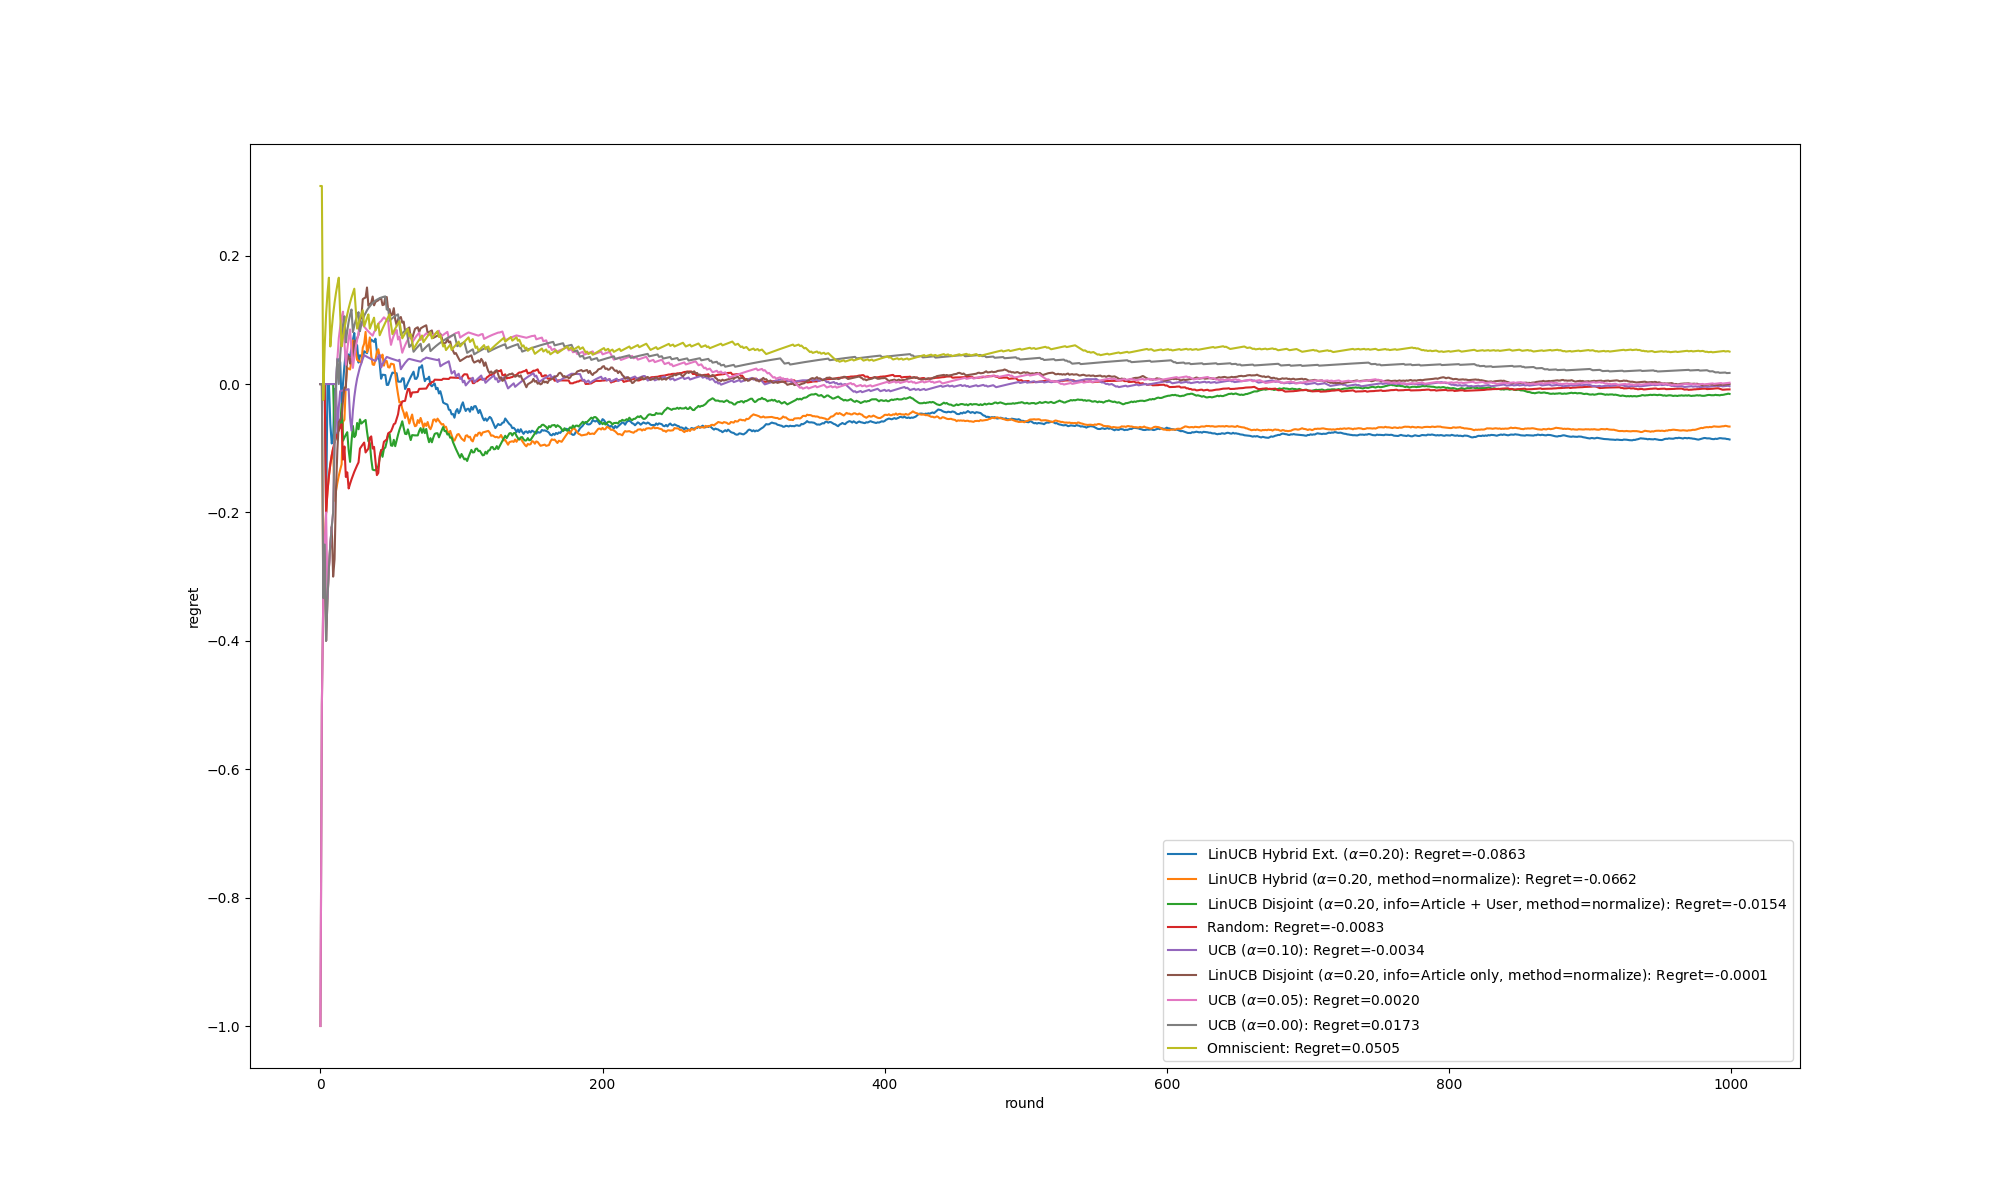
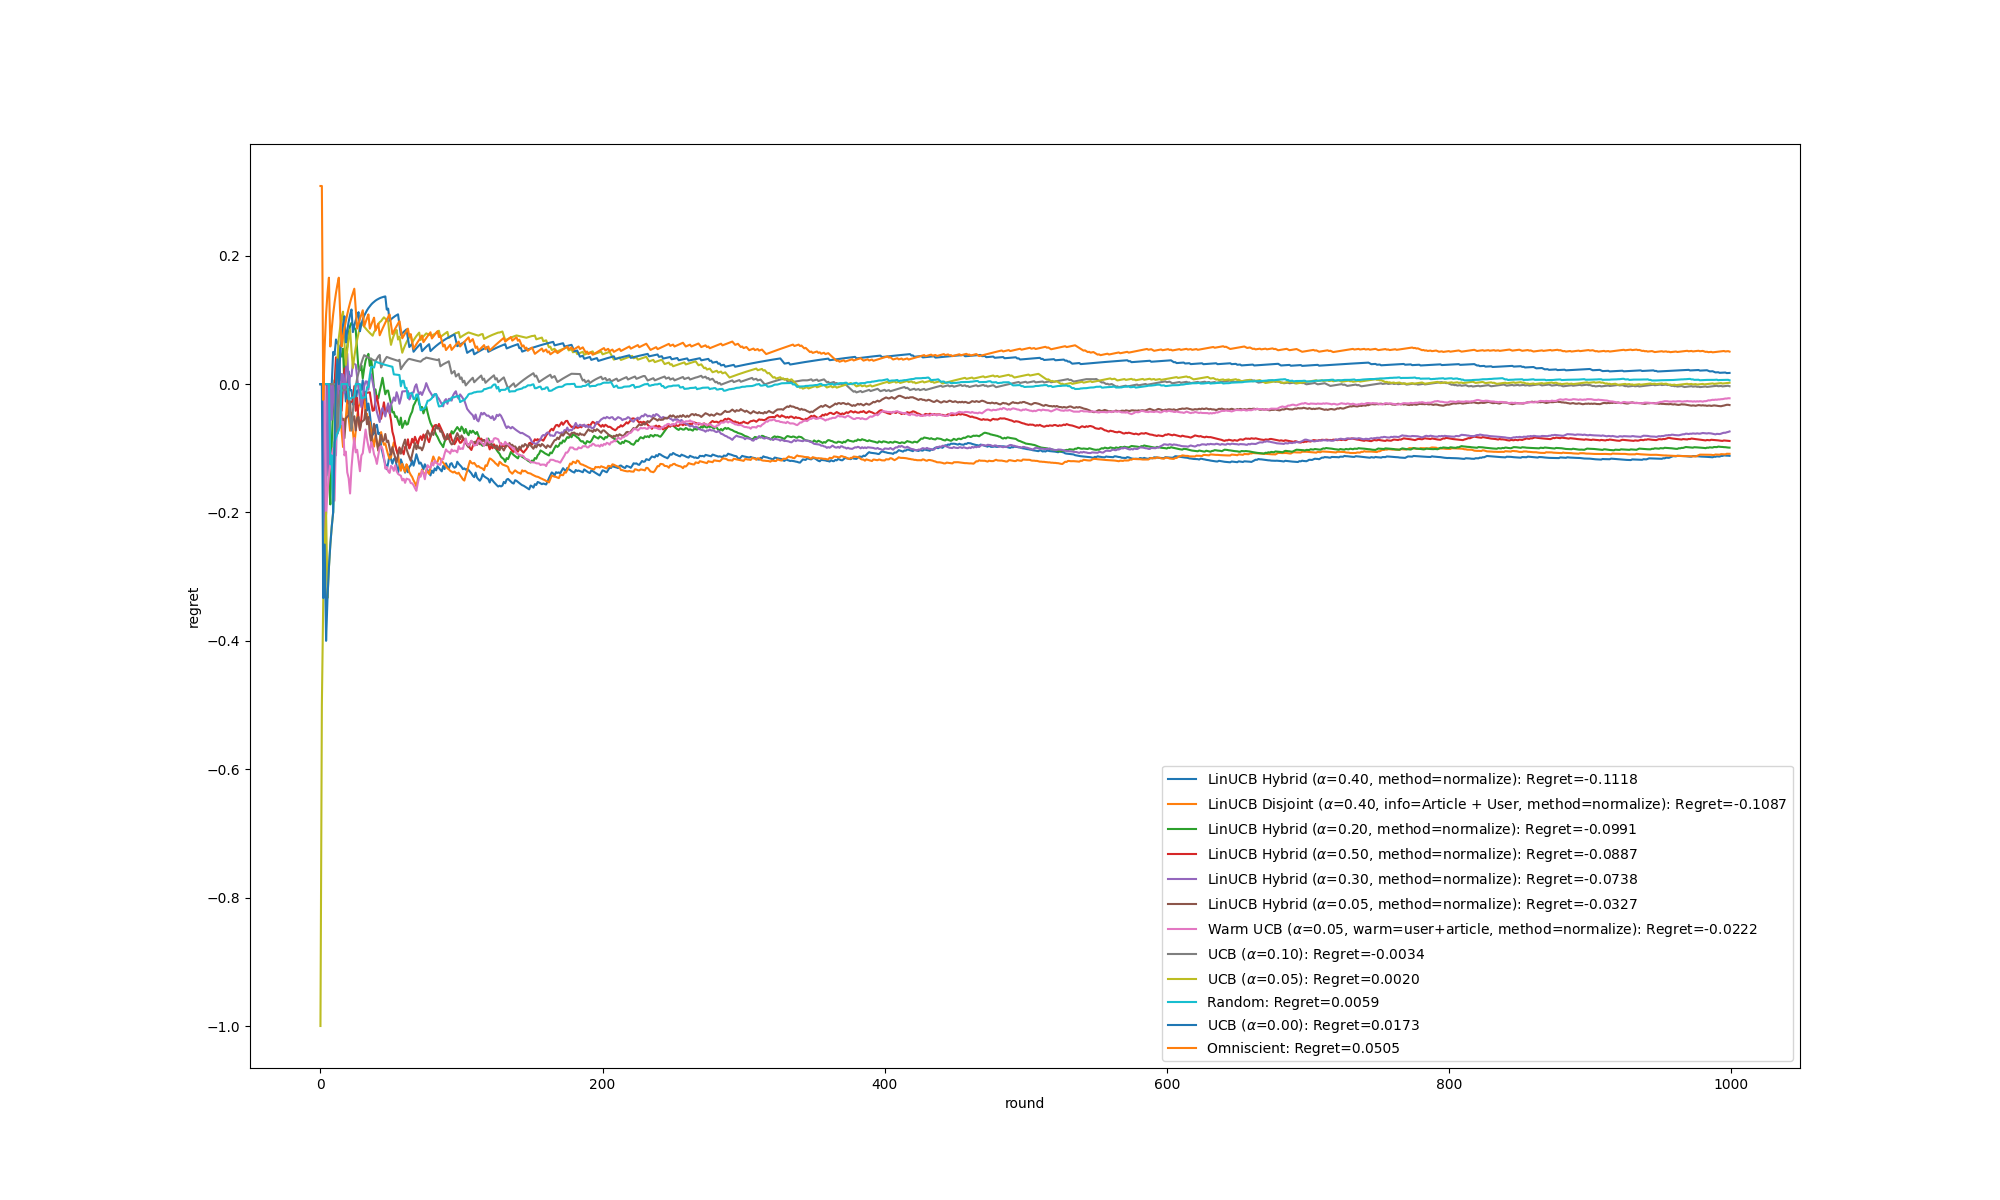
v1.0 alpha finished

Changed region(s): [[0.155, 0.2158, 0.868, 0.5242], [0.589, 0.6475, 0.899, 0.8633]]

diff --git a/main.py b/main.py
@@ -7,9 +7,11 @@ from model.BasicModel.ThompsonSampling import ThompsonSampling
 from model.ContextModel.LinUCBDisjoint import LinUCBDisjoint
 from model.ContextModel.LinUCBHybrid import LinUCBHybrid
 from model.ContextModel.LinUCBHybridExt import LinUCBHybridExt
+from model.ContextModel.LinUCBHybridExtUser import LinUCBHybridExtUser
 
 from model.WarmStartModel.WarmUCB import WarmUCB
 from model.WarmStartModel.WarmEpsilonGreedy import WarmEpsilonGreedy
+from model.WarmStartModel.WarmLinUCBDisjoint import WarmLinUCBDisjoint
 from model.WarmStartModel.WarmLinUCBHybrid import WarmLinUCBHybrid
 
 from model.evaluator import Evaluator
@@ -44,10 +46,14 @@ def main():
     models.append(UCB({"alpha": 0}))
     models.append(UCB({"alpha": 0.05}))
     models.append(UCB({"alpha": 0.1}))
+    # models.append(UCB({"alpha": 0.2}))
+    # models.append(UCB({"alpha": 0.3}))
+    # models.append(UCB({"alpha": 0.4}))
+    # models.append(UCB({"alpha": 0.5}))
     # models.append(WarmUCB({"alpha": 0.05, "warmType": "user", "method": "normalize"}))
-    # models.append(WarmUCB({"alpha": 0.05, "warmType": "article", "method": "normalize"}))
+    models.append(WarmUCB({"alpha": 0.05, "warmType": "article", "method": "normalize"}))
     # models.append(WarmUCB({"alpha": 0.05, "warmType": "user*article", "method": "normalize"}))
-    # models.append(WarmUCB({"alpha": 0.05, "warmType": "user+article", "method": "normalize"}))
+    models.append(WarmUCB({"alpha": 0.05, "warmType": "user+article", "method": "normalize"}))
     # models.append(WarmUCB({"alpha": 0.05, "warmType": "user+article", "method": "standarize"}))
     # models.append(WarmUCB({"alpha": 0.05, "warmType": "user+article", "method": "one"}))
     models.append(RandomModel({}))
@@ -61,18 +67,45 @@ def main():
     # models.append(LinUCBDisjoint({"alpha": 0.05, "useUser": False, "method": "standarize"}))
     # models.append(LinUCBDisjoint({"alpha": 0.05, "useUser": False, "method": "one"}))
     # models.append(LinUCBDisjoint({"alpha": 0.1, "useUser": False, "method": "normalize"}))
-    models.append(LinUCBDisjoint({"alpha": 0.2, "useUser": False, "method": "normalize"}))
-    models.append(LinUCBDisjoint({"alpha": 0.2, "useUser": True, "method": "normalize"}))
+    # models.append(LinUCBDisjoint({"alpha": 0.2, "useUser": False, "method": "normalize"}))
+    # models.append(LinUCBDisjoint({"alpha": 0.2, "useUser": True, "method": "normalize"}))
+    # models.append(LinUCBDisjoint({"alpha": 0.3, "useUser": True, "method": "normalize"}))
+    models.append(LinUCBDisjoint({"alpha": 0.4, "useUser": True, "method": "normalize"}))
+    # models.append(LinUCBDisjoint({"alpha": 0.4, "useUser": False, "method": "normalize"}))
+    # models.append(LinUCBDisjoint({"alpha": 0.4, "useUser": True, "method": "standarize"}))
+    # models.append(LinUCBDisjoint({"alpha": 0.4, "useUser": True, "method": "one"}))
+    # models.append(LinUCBDisjoint({"alpha": 0.5, "useUser": True, "method": "normalize"}))
+    # models.append(LinUCBDisjoint({"alpha": 0.5, "useUser": True, "method": "standarize"}))
+    # models.append(LinUCBDisjoint({"alpha": 0.5, "useUser": True, "method": "one"}))
+    # models.append(LinUCBDisjoint({"alpha": 0.5, "useUser": True, "method": "normalize"}))
+    # models.append(WarmLinUCBDisjoint({"alpha": 0.2, "useUser": True, "method": "normalize"}))
+    # models.append(WarmLinUCBDisjoint({"alpha": 0.3, "useUser": True, "method": "normalize"}))
+    # models.append(WarmLinUCBDisjoint({"alpha": 0.4, "useUser": True, "method": "normalize"}))
+    # models.append(WarmLinUCBDisjoint({"alpha": 0.5, "useUser": True, "method": "normalize"}))
     # models.append(LinUCBHybrid({"alpha": 0.05, "method": "normalize"}))
-    models.append(LinUCBHybrid({"alpha": 0.2, "method": "normalize"}))
+    # models.append(LinUCBHybrid({"alpha": 0.2, "method": "normalize"}))
+    models.append(LinUCBHybrid({"alpha": 0.3, "method": "normalize"}))
+    models.append(LinUCBHybrid({"alpha": 0.4, "method": "normalize"}))
+    models.append(LinUCBHybrid({"alpha": 0.5, "method": "normalize"}))
     # models.append(WarmLinUCBHybrid({"alpha": 0.05, "warmType": "article", "method": "normalize"}))
     # models.append(WarmLinUCBHybrid({"alpha": 0.05, "warmType": "user", "method": "normalize"}))
     # models.append(WarmLinUCBHybrid({"alpha": 0.05, "warmType": "user+article", "method": "normalize"}))
     # models.append(WarmLinUCBHybrid({"alpha": 0.05, "warmType": "user*article", "method": "normalize"}))
+    # models.append(WarmLinUCBHybrid({"alpha": 0.2, "warmType": "user+article", "method": "normalize"}))
+    # models.append(WarmLinUCBHybrid({"alpha": 0.3, "warmType": "user+article", "method": "normalize"}))
+    # models.append(WarmLinUCBHybrid({"alpha": 0.4, "warmType": "user+article", "method": "normalize"}))
+    # models.append(WarmLinUCBHybrid({"alpha": 0.5, "warmType": "user+article", "method": "normalize"}))
     # models.append(LinUCBHybridExt({"alpha": 0.05, "method": "normalize"}))
-    models.append(LinUCBHybridExt({"alpha": 0.2, "method": "normalize"}))
+    # models.append(LinUCBHybridExt({"alpha": 0.2, "method": "normalize"}))
+    models.append(LinUCBHybridExt({"alpha": 0.3, "method": "normalize"}))
+    models.append(LinUCBHybridExt({"alpha": 0.4, "method": "normalize"}))
+    models.append(LinUCBHybridExt({"alpha": 0.5, "method": "normalize"}))
+    # models.append(LinUCBHybridExtUser({"alpha": 0.2, "method": "normalize"}))
+    models.append(LinUCBHybridExtUser({"alpha": 0.3, "method": "normalize"}))
+    models.append(LinUCBHybridExtUser({"alpha": 0.4, "method": "normalize"}))
+    models.append(LinUCBHybridExtUser({"alpha": 0.5, "method": "normalize"}))
     dataset = Dataset.fromFile("dataset/dataset.txt")
-    compareModels(models, dataset, "test")
+    compareModels(models, dataset, "LinUCBHybridExt2")
 
 
 if (__name__ == '__main__'):

diff --git a/model/WarmStartModel/WarmLinUCBHybrid.py b/model/WarmStartModel/WarmLinUCBHybrid.py
@@ -20,21 +20,21 @@ class WarmLinUCBHybrid(MAB):
         # k: user/article combination
         # d: article dimension
 
-        self.A0 = numpy.identity(config.userContextDimension)
-        self.b0 = numpy.zeros(config.userContextDimension)
+        self.A0 = numpy.identity(config.userContextDimension + 1)
+        self.b0 = numpy.zeros(config.userContextDimension + 1)
 
 
-        self.A = numpy.array([numpy.identity(config.articleContextDimension)] * config.armCount)
-        self.B = numpy.zeros((config.armCount, config.articleContextDimension, config.userContextDimension))
-        self.b = numpy.zeros((config.armCount, config.articleContextDimension))
+        self.A = numpy.array([numpy.identity(config.articleContextDimension + 1)] * config.armCount)
+        self.B = numpy.zeros((config.armCount, config.articleContextDimension + 1, config.userContextDimension + 1))
+        self.b = numpy.zeros((config.armCount, config.articleContextDimension + 1))
 
         self.warmModel = None
 
         warmthDimension = {
-            "user": config.userContextDimension,
-            "article": config.articleContextDimension,
-            "user+article": config.armContextDimension,
-            "user*article": config.userContextDimension * config.articleContextDimension
+            "user": config.userContextDimension + 1,
+            "article": config.articleContextDimension + 1,
+            "user+article": config.armContextDimension + 1,
+            "user*article": (config.userContextDimension + 1) * (config.articleContextDimension + 1)
         }
         self.warmthDimention = warmthDimension[self.warmType]
 
@@ -64,7 +64,7 @@ class WarmLinUCBHybrid(MAB):
             userFeature = self.preprocessContext(feature[config.userContextIndex])
             articleFeature = self.preprocessContext(feature[config.articelContextIndex])
             feature = numpy.outer(userFeature, articleFeature)
-            feature.resize(config.userContextDimension * config.articleContextDimension)
+            feature.resize((config.userContextDimension + 1) * (config.articleContextDimension + 1))
         return feature
 
     def preprocessContext(self, feature):
@@ -81,8 +81,9 @@ class WarmLinUCBHybrid(MAB):
                 feature = (feature - min(feature)) / (max(feature) - min(feature))
             else:
                 feature = numpy.zeros_like(feature)
-        
-        return feature
+        feature = feature.tolist()
+        feature.append(1)
+        return numpy.array(feature)
 
 
     def selectArm(self, context=None):
@@ -95,9 +96,9 @@ class WarmLinUCBHybrid(MAB):
             userFeature = self.preprocessContext(context[i, config.userContextIndex])
 
             x = articleFeature
-            x.resize((config.articleContextDimension, 1))
+            x.resize((config.articleContextDimension + 1, 1))
             z = userFeature
-            z.resize((config.userContextDimension, 1))
+            z.resize((config.userContextDimension + 1, 1))
             invA = numpy.linalg.inv(self.A[i])
             B = self.B[i]
             b = self.b[i]
@@ -124,9 +125,9 @@ class WarmLinUCBHybrid(MAB):
         userFeature = self.preprocessContext(record.context[arm, config.userContextIndex])
 
         x = articleFeature
-        x.resize((config.articleContextDimension, 1))
+        x.resize((config.articleContextDimension + 1, 1))
         z = userFeature
-        z.resize((config.userContextDimension, 1))
+        z.resize((config.userContextDimension + 1, 1))
         invA = numpy.linalg.inv(self.A[arm])
         B = self.B[arm]
         b = self.b[arm]

diff --git a/model/WarmStartModel/WarmLinUCBDisjoint.py b/model/WarmStartModel/WarmLinUCBDisjoint.py
@@ -1,10 +1,11 @@
 import numpy
 import random
+import sklearn
 from model.MAB import MAB
 from model.dataset import Dataset
 from model.record import Record
 from config import config
-class LinUCBDisjoint(MAB):
+class WarmLinUCBDisjoint(MAB):
     def __init__(self, args) -> None:
         random.seed(config.seed)
         numpy.random.seed(config.seed)
@@ -21,10 +22,18 @@ class LinUCBDisjoint(MAB):
         self.A = numpy.array([numpy.identity(self.size + 1)] * config.armCount)
         self.b = numpy.zeros((config.armCount, self.size + 1))
 
-        self.name = r"LinUCB Disjoint ($\alpha$={:.2f}, info={}, method={})".format(self.alpha, "Article + User" if self.useUser else "Article only", self.method)
+        self.name = r"Warm LinUCB Disjoint ($\alpha$={:.2f}, info={}, method={})".format(self.alpha, "Article + User" if self.useUser else "Article only", self.method)
 
     def train(self, trainset:Dataset):
-        pass
+        contexts = numpy.zeros((len(trainset.records), self.size + 1))
+        rewards = numpy.zeros(len(trainset.records))
+        for idx, record in trainset.iterRecords():
+            selectedArm = record.arm
+            contexts[idx] = self.preprocessContext(record.context[selectedArm])
+            rewards[idx] = record.reward
+        
+        self.warmModel = sklearn.linear_model.LogisticRegression(solver='lbfgs', max_iter=1000, random_state=42)
+        self.warmModel.fit(contexts, rewards)
 
     def preprocessContext(self, feature):
         feature = feature[self.slice]
@@ -33,7 +42,7 @@ class LinUCBDisjoint(MAB):
                 feature = feature /  numpy.linalg.norm(feature)  # normalize / standarize / min-max normalization
         elif (self.method == 'standarize'):
             if (max(feature) != min(feature)):
-                feature = (feature - numpy.mean(feature)) / numpy.sqrt(numpy.var(feature))
+                feature = (feature - numpy.mean(feature)) / numpy.var(feature)
             else:
                 feature = numpy.zeros_like(feature)
         elif (self.method == 'one'):
@@ -52,7 +61,8 @@ class LinUCBDisjoint(MAB):
         for i in range(config.armCount):
             feature = self.preprocessContext(context[i])
             theta = numpy.linalg.inv(self.A[i]).dot(self.b[i])
-            p[i] = theta.T.dot(feature) + self.alpha * numpy.sqrt(feature.T.dot(numpy.linalg.inv(self.A[i])).dot(feature))
+            warmth = self.warmModel.predict_log_proba([feature])[0][1]
+            p[i] = theta.T.dot(feature) + self.alpha * numpy.sqrt(feature.T.dot(numpy.linalg.inv(self.A[i])).dot(feature)) + warmth
         
         maxReward = max(p)
         maxRewardArms = [idx for idx in range(config.armCount) if p[idx] == maxReward]

diff --git a/model/ContextModel/LinUCBHybrid.py b/model/ContextModel/LinUCBHybrid.py
@@ -18,13 +18,13 @@ class LinUCBHybrid(MAB):
         # k: user/article combination
         # d: article dimension
 
-        self.A0 = numpy.identity(config.userContextDimension)
-        self.b0 = numpy.zeros(config.userContextDimension)
+        self.A0 = numpy.identity(config.userContextDimension + 1)
+        self.b0 = numpy.zeros(config.userContextDimension + 1)
 
 
-        self.A = numpy.array([numpy.identity(config.articleContextDimension)] * config.armCount)
-        self.B = numpy.zeros((config.armCount, config.articleContextDimension, config.userContextDimension))
-        self.b = numpy.zeros((config.armCount, config.articleContextDimension))
+        self.A = numpy.array([numpy.identity(config.articleContextDimension + 1)] * config.armCount)
+        self.B = numpy.zeros((config.armCount, config.articleContextDimension + 1, config.userContextDimension + 1))
+        self.b = numpy.zeros((config.armCount, config.articleContextDimension + 1))
 
 
         self.name = r"LinUCB Hybrid ($\alpha$={:.2f}, method={})".format(self.alpha, self.method)
@@ -46,8 +46,9 @@ class LinUCBHybrid(MAB):
                 feature = (feature - min(feature)) / (max(feature) - min(feature))
             else:
                 feature = numpy.zeros_like(feature)
-        
-        return feature
+        feature = feature.tolist()
+        feature.append(1)
+        return numpy.array(feature)
 
 
     def selectArm(self, context=None):
@@ -60,9 +61,9 @@ class LinUCBHybrid(MAB):
             userFeature = self.preprocessContext(context[i, config.userContextIndex])
 
             x = articleFeature
-            x.resize((config.articleContextDimension, 1))
+            x.resize((config.articleContextDimension + 1, 1))
             z = userFeature
-            z.resize((config.userContextDimension, 1))
+            z.resize((config.userContextDimension + 1, 1))
             invA = numpy.linalg.inv(self.A[i])
             B = self.B[i]
             b = self.b[i]
@@ -87,9 +88,9 @@ class LinUCBHybrid(MAB):
         userFeature = self.preprocessContext(record.context[arm, config.userContextIndex])
 
         x = articleFeature
-        x.resize((config.articleContextDimension, 1))
+        x.resize((config.articleContextDimension + 1, 1))
         z = userFeature
-        z.resize((config.userContextDimension, 1))
+        z.resize((config.userContextDimension + 1, 1))
         invA = numpy.linalg.inv(self.A[arm])
         B = self.B[arm]
         b = self.b[arm]

diff --git a/model/ContextModel/LinUCBHybridExtUser.py b/model/ContextModel/LinUCBHybridExtUser.py
@@ -4,7 +4,7 @@ from model.MAB import MAB
 from model.dataset import Dataset
 from model.record import Record
 from config import config
-class LinUCBHybridExt(MAB):
+class LinUCBHybridExtUser(MAB):
     def __init__(self, args) -> None:
         random.seed(config.seed)
         numpy.random.seed(config.seed)
@@ -24,12 +24,12 @@ class LinUCBHybridExt(MAB):
         self.b0 = numpy.zeros(self.userContextDimension)
 
 
-        self.A = numpy.array([numpy.identity(config.articleContextDimension + 1)] * config.armCount)
-        self.B = numpy.zeros((config.armCount, config.articleContextDimension + 1, self.userContextDimension))
-        self.b = numpy.zeros((config.armCount, config.articleContextDimension + 1))
+        self.A = numpy.array([numpy.identity(config.userContextDimension + 1)] * config.armCount)
+        self.B = numpy.zeros((config.armCount, config.userContextDimension + 1, self.userContextDimension))
+        self.b = numpy.zeros((config.armCount, config.userContextDimension + 1))
 
 
-        self.name = r"LinUCB Hybrid Ext. ($\alpha$={:.2f})".format(self.alpha)
+        self.name = r"LinUCB Hybrid Ext. User ($\alpha$={:.2f})".format(self.alpha)
 
     def train(self, trainset:Dataset):
         pass
@@ -62,8 +62,8 @@ class LinUCBHybridExt(MAB):
             articleFeature = self.preprocessContext(context[i, config.articelContextIndex])
             userFeature = self.preprocessContext(context[i, config.userContextIndex])
 
-            x = articleFeature
-            x.resize((config.articleContextDimension + 1, 1))
+            x = userFeature
+            x.resize((config.userContextDimension + 1, 1))
             z = numpy.outer(userFeature, articleFeature)
             z.resize((self.userContextDimension, 1))
             invA = numpy.linalg.inv(self.A[i])
@@ -89,8 +89,8 @@ class LinUCBHybridExt(MAB):
         articleFeature = self.preprocessContext(record.context[arm, config.articelContextIndex])
         userFeature = self.preprocessContext(record.context[arm, config.userContextIndex])
 
-        x = articleFeature
-        x.resize((config.articleContextDimension + 1, 1))
+        x = userFeature
+        x.resize((config.userContextDimension + 1, 1))
         z = numpy.outer(userFeature, articleFeature)
         z.resize((self.userContextDimension, 1))
         invA = numpy.linalg.inv(self.A[arm])
